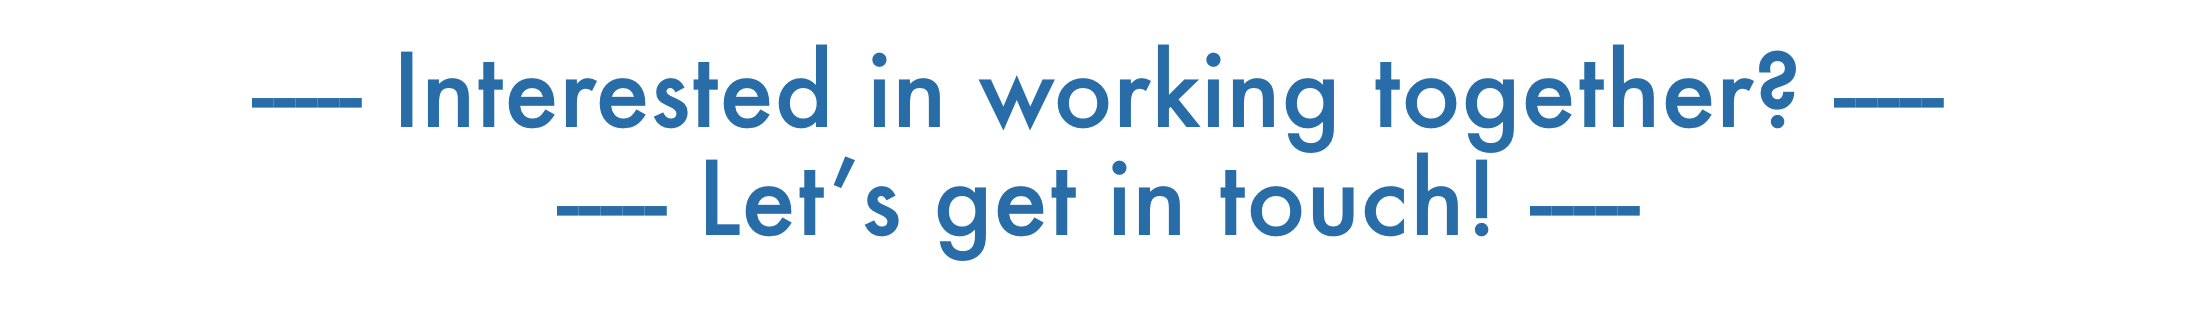
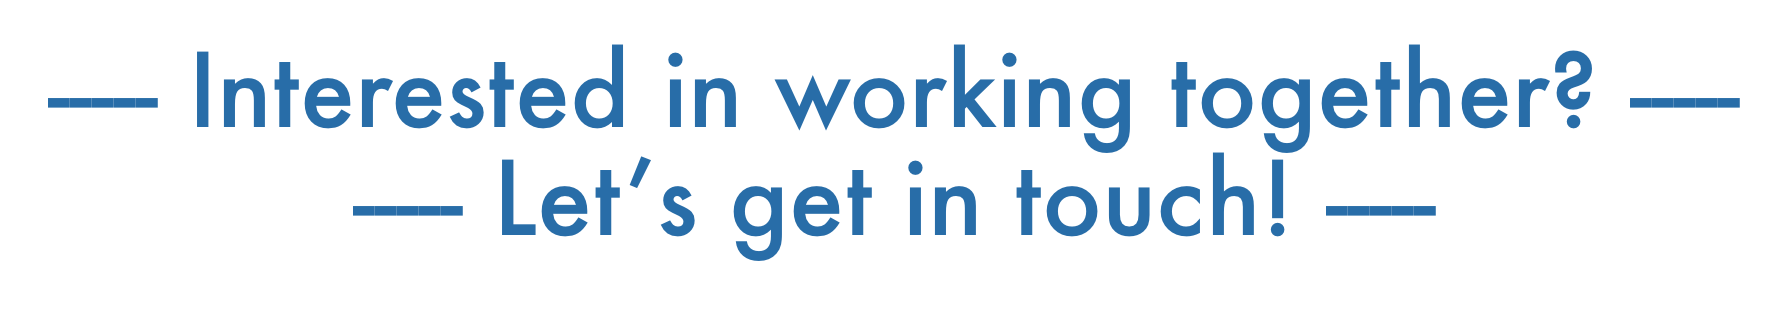
disc0 slides + minor css fixes

Changed region(s): [[0.0, 0.1411, 0.9877, 0.8182]]

diff --git a/index.html b/index.html
@@ -96,17 +96,17 @@
                 </div>
                 
                 <div id = "links-margin"> </div> 
-                <div id="links-box">
-                    <div id = "links">
-                        <a href = "https://www.facebook.com/kgoot" target = "_blank"><img class = "link" src = "assets/img/icons/facebook.png"></a>
-                        <a href = "https://www.instagram.com/thegootlife/" target = "_blank"> <img class = "link" src = "assets/img/icons/instagram.png"> </a>
-                        <a href = "https://www.linkedin.com/in/kgoot/" target = "_blank"> <img class = "link" src = "assets/img/icons/linkedin.png"> </a> 
-                        <a href = "mailto:kgoot@berkeley.edu"><img class = "link" src = "assets/img/icons/email.png"></a> 
-                        <a href = "assets/docs/Karina_Goot_Resume.pdf" target = "_blank"><img class = "link" src = "assets/img/icons/resume.png"></a>   
-                    </div>
-                </div>
-                <br>
-                <br>        
+                <!-- <div class="inner"> -->
+                     <div id="links-box">
+                    <ul class="icons style2">
+                        <li><a href="https://www.facebook.com/kgoot" class="icon style2 fa-facebook"><span class="label">Facebook</span></a></li>
+                        <li><a href="https://www.instagram.com/thegootlife/" class="icon style2 fa-instagram"><span class="label">Instagram</span></a></li>
+                        <li><a href="https://www.linkedin.com/in/kgoot/" class="icon style2 fa-linkedin"><span class="label">LinkedIn</span></a></li>
+                        <li><a href="mailto:kgoot@berkeley.edu" class="icon style2 fa-envelope"><span class="label">Email</span></a></li>
+                        <li><a href="https://github.com/kgoot/" class="icon style2 fa-github"><span class="label">Github</span></a></li>
+                        <li><a href="assets/docs/Karina_Goot_Resume.pdf"" class="icon style2 fa-pencil"><span class="label">resume</span></a></li>
+                    </ul>
+                </div>   
                 <div id = "scroll-margin"> </div> 
                 <div id = "scroll-box">
                     <div id = "scroll-textbox">
@@ -178,7 +178,7 @@
                     <br>
                 </div>   
             </div>
-        </div>
+        </div>       
     </section>
 
     <!-- WORK PAGE -->
@@ -376,6 +376,7 @@
                         Weekly Discussion Slides
                     </div>
                     <div id = "teaching-text">
+                        <b>Discussion 0: </b> <a href = "https://docs.google.com/presentation/d/1-ucxAbc0Guc2ZKu5MxeTQTRR_w7Z4CV22szqnPvIo9A/edit?usp=sharing"> Lost on the Moon </a>  <br>
                         <b>Week 1: </b> Coming soon <br>
                         <b>Week 2: </b> Coming soon <br>
                         <b>Week 3: </b> Coming soon <br>
@@ -404,32 +405,24 @@
     </section>
 
 
-    <!-- Final Thoughts -->
-    <section class="wrapper style1 align-center" >
-        <div class = "outer-container"> 
-            <div class = "slide-border"> </div> 
-            <div class = "card-header-container">
-                <img class = "card-title" src = "assets/img/headers/contact.png">
-            </div>
-        </div>
         <br>
-
-        <!-- Footer -->
-        <footer class="wrapper style3 align-center">
-            <div class="inner">
-                <ul class="icons">
-                    <li><a href="https://www.facebook.com/kgoot" class="icon style2 fa-facebook"><span class="label">Facebook</span></a></li>
-                    <li><a href="https://www.instagram.com/thegootlife/" class="icon style2 fa-instagram"><span class="label">Instagram</span></a></li>
-                    <li><a href="https://www.linkedin.com/in/kgoot/" class="icon style2 fa-linkedin"><span class="label">LinkedIn</span></a></li>
-                    <li><a href="mailto:kgoot@berkeley.edu" class="icon style2 fa-envelope"><span class="label">Email</span></a></li>
-                    <li><a href="https://github.com/kgoot/" class="icon style2 fa-github"><span class="label">Github</span></a></li>
-                    <li><a href="assets/docs/Karina_Goot_Resume.pdf"" class="icon style2 fa-pencil"><span class="label">resume</span></a></li>
-                </ul>
+        <div class = "outer-container"> 
+            <div id="teaching-title-text">
+                <center> Interested in working together? Let's get in touch! <br> </center>
             </div>
-        </footer>
-    </section>
+            
+            <br>
+            <ul class="icons style3">
+                <li><a href="https://www.facebook.com/kgoot" class="icon style3 fa-facebook"><span class="label">Facebook</span></a></li>
+                <li><a href="https://www.instagram.com/thegootlife/" class="icon style3 fa-instagram"><span class="label">Instagram</span></a></li>
+                <li><a href="https://www.linkedin.com/in/kgoot/" class="icon style3 fa-linkedin"><span class="label">LinkedIn</span></a></li>
+                <li><a href="mailto:kgoot@berkeley.edu" class="icon style3 fa-envelope"><span class="label">Email</span></a></li>
+                <li><a href="https://github.com/kgoot/" class="icon style3 fa-github"><span class="label">Github</span></a></li>
+                <li><a href="assets/docs/Karina_Goot_Resume.pdf"" class="icon style3 fa-pencil"><span class="label">resume</span></a></li>
+            </ul>
 
-    <div id = "footer" style = "padding-top: 20px; font-size:12px;"> © 2018 <a href = "https://kgoot.github.io"> Karina Goot </a>. All Rights Reserved. </div>
-
+            <div id = "footer" style = "padding-top: 20px; font-size:12px;"> © 2018 <a href = "https://kgoot.github.io"> Karina Goot </a>. All Rights Reserved. </div>
+        </div>
+ 
 </body>
 </html>

diff --git a/assets/css/main.css b/assets/css/main.css
@@ -2398,12 +2398,19 @@
 	}
 
 /* Icon */
-
 	.icon {
 		text-decoration: none;
 		border-bottom: none;
 		position: relative;
 		text-align: center;
+		/*color: #CD5360;*/
+	}
+
+	.icon.style2 {
+		color: #CD5360;
+	}
+	.icon.style3 {
+		color: #286DA8;
 	}
 
 		.icon:before {
@@ -2413,6 +2420,7 @@
 			font-style: normal;
 			font-weight: normal;
 			text-transform: none !important;
+			/*color: #CD5360;*/
 		}
 
 		.icon > .label {
@@ -2420,6 +2428,14 @@
 		}
 
 		.icon.style2:before {
+			border-radius: 2.75em;
+			display: inline-block;
+			height: 2.75em;
+			line-height: 2.75em;
+			width: 2.75em;
+		}
+
+		.icon.style3:before {
 			border-radius: 2.75em;
 			display: inline-block;
 			height: 2.75em;
@@ -2443,19 +2459,38 @@
 		transition: background-color 0.2s ease-in-out, box-shadow 0.2s ease-in-out, color 0.2s ease-in-out;
 	}
 
+	a.icon.style3:before {
+		-moz-transition: background-color 0.2s ease-in-out, box-shadow 0.2s ease-in-out, color 0.2s ease-in-out;
+		-webkit-transition: background-color 0.2s ease-in-out, box-shadow 0.2s ease-in-out, color 0.2s ease-in-out;
+		-ms-transition: background-color 0.2s ease-in-out, box-shadow 0.2s ease-in-out, color 0.2s ease-in-out;
+		transition: background-color 0.2s ease-in-out, box-shadow 0.2s ease-in-out, color 0.2s ease-in-out;
+	}
+
 	.icon.style2:before {
-		box-shadow: inset 0 0 0 1px rgba(0, 0, 0, 0.2);
+		box-shadow: inset 0 0 0 1px #CD5360;
+	}
+
+	.icon.style3:before {
+		box-shadow: inset 0 0 0 1px #286DA8;
 	}
 
 	a.icon.style2:hover:before {
-		box-shadow: inset 0 0 0 1px #47D3E5;
-		color: #47D3E5;
+		opacity: 0.5;
+	}
+
+	a.icon.style3:hover:before {
+		opacity: 0.5;
 	}
 
 	a.icon.style2:active:before {
 		background-color: rgba(71, 211, 229, 0.1);
-		box-shadow: inset 0 0 0 1px #47D3E5;
-		color: #47D3E5;
+		box-shadow: inset 0 0 0 1px #CD5360;
+		color: #CD5360;
+	}
+	a.icon.style3:active:before {
+		background-color: rgba(71, 211, 229, 0.1);
+		box-shadow: inset 0 0 0 1px #286DA8;
+		color: #286DA8;
 	}
 
 /* Image */
@@ -2554,6 +2589,16 @@
 			cursor: default;
 			list-style: none;
 			padding-left: 0;
+		}
+
+		ul.icons.style2 {
+			text-align: center;
+		}
+
+
+		ul.icons.style3 {
+			text-align: center;
+			position: relative;
 		}
 
 			ul.icons li {

diff --git a/assets/css/style.css b/assets/css/style.css
@@ -5,11 +5,10 @@ body {
 }
 
 .outer-container {
-    max-width: 1100px;
     position:relative;
-    left:50%;
+    width:80%;
+    left: 50%;
     transform: translateX(-50%);
-    
 }
 
 .section-card {
@@ -23,7 +22,7 @@ body {
     position:fixed;
     width:100%;
     height:100vh;
-     background-color:rgba(0,0,0,.32); 
+    background-color:rgba(0,0,0,.32); 
     z-index:15;
 }
 

diff --git a/assets/css/cs61a.css b/assets/css/cs61a.css
@@ -2,7 +2,6 @@
     min-height:95vh;
 }
 
-
 #contact-container {
     position:relative;
     width:80%;
@@ -54,7 +53,7 @@
 #teaching-text {
     position:relative;
     padding-left: 30px;
-    width:100%;
+    width:80%;
     height:100%;
     font-size: 16px;
     text-align: justify;
